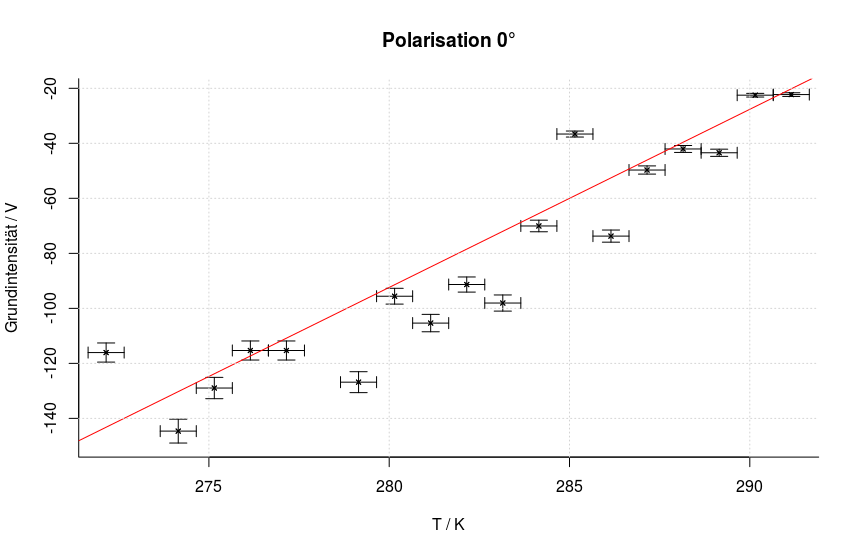
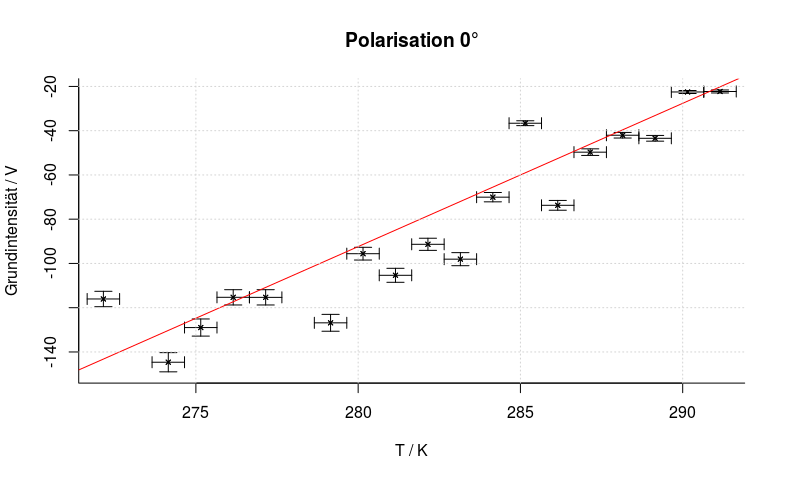
dfgj

diff --git a/hanle.tex b/hanle.tex
@@ -392,28 +392,31 @@ $$\tau_{45°}=40.3\pm0.8$$
 Für die Polarisationen $Pol=0°$ und $Pol=90°$ erhalten wir übereinstimmende Ergebnisse. Die Ergebnisse von $Pol=45°$ passen jedoch nicht zu den anderen Ergebnissen. Deswegen wird kein Mittelwert aus den Ergebnissen gebildet. Mehr dazu folgt in Kapitel \ref{diskussion}.
 \newpage
 
-\subsection{Intensitätsverlauf}
-\graThree{intense-warm0}{intense-warm45}{intense-warm90}{Zeitlicher Verlauf der Intensitätsamplituden der drei verschiedenen Polarisationen des Aufwärmvorgangs\label{intense-warm}}
-\graThree{intense-cold0}{intense-cold45}{intense-cold90}{Zeitlicher Verlauf der Intensitätsamplituden der drei verschiedenen Polarisationen des Abkühlvorgangs\label{intense-cold}}
-In den Abbildungen \ref{intense-warm} und \ref{intense-cold} sind die Amplituden der Lorentz-Fits über die Zeit aufgetragen. Man erkennt einen linear abnehmenden Verlauf, an welchen eine Gerade gefittet wurde ($I(T)=a\cdot T+b$).\\
+\subsection{Grundintensitäten}
+Um die Temperaturmessungen zu überprüfen, wurden in den Abbildungen \ref{intense-warm} und \ref{intense-cold} Grundintensitäten der Lorentz- und Dispersions-Fits über die Zeit aufgetragen (Daten im Anhang in Kapitel \ref{tabellen}). Da man hier durch die Temperaturabhängigkeit des Photomultipliers einen linearen Verlauf erwartet, kann man aus Abweichungen von diesem Verlauf auf Fehler bei den Temperaturmessungen schließen.
 
-Die Parameter der Fitdaten sind in Tabelle \ref{fitdaten} zu finden.
+\graThree[0.6]{intense-warm0}{intense-warm45}{intense-warm90}{Zeitlicher Verlauf der Intensitätsamplituden der drei verschiedenen Polarisationen des Aufwärmvorgangs\label{intense-warm}}
+\graThree[0.6]{intense-cold0}{intense-cold45}{intense-cold90}{Zeitlicher Verlauf der Intensitätsamplituden der drei verschiedenen Polarisationen des Abkühlvorgangs\label{intense-cold}}
+\newpage
+An diese Daten fitten wir nun eine Gerade $I(T)=a\cdot T+b$. Die Parameter der Fitdaten sind in Tabelle \ref{fitdaten} zu finden.
 
 \begin{table}[h!]
 	\centering
 	\begin{tabular}{c||c|c||r}
 		$Pol$	&	$a\,/\,\mathrm{\frac{V}{K}}$	&	$b\,/\,\mathrm{V}$	& $\chi^2$/ndf	\\\hline\hline
 		\textbf{Aufwärmen}	&	&	&	\\\hline
-		0°	&	$-34.8\pm0.9$	&	$11100\pm300$	&	0.19	\\\hline
-		45°	&	$-9.0\pm0.3$	&	$2830\pm80$		&	0.10	\\\hline
-		90° &	$-33.2\pm0.5$	&	$10280\pm160$	&	0.09	\\\hline\hline
+		0°	&	$18.8\pm1.9$	&	$-5900\pm500$	&	1.79	\\\hline
+		45°	&	$-0.3\pm0.5$	&	$70\pm150$		&	176	\\\hline
+		90° &	$-16.6\pm1.1$	&	$5200\pm300$	&	0.69	\\\hline\hline
 		\textbf{Abkühlen}	&	&	&	\\\hline
-		0°	&	$-12.6\pm0.4$	&	$3810\pm110$	&	0.48	\\\hline
-		45°	&	$-2.72\pm0.09$	&	$820\pm30$		&	0.12	\\\hline
-		90° &	$-9.2\pm0.3$	&	$2730\pm80$ 	&	0.43		
+		0°	&	$6.5\pm0.7$		&	$-1910\pm190$	&	3.6	\\\hline
+		45°	&	$-0.8\pm0.4$	&	$260\pm100$		&	33	\\\hline
+		90° &	$-3.6\pm0.8$	&	$1100\pm200$ 	&	3.8		
 	\end{tabular}
 	\caption{Fitdaten der Intensitätsverläufe aus den Abbildungen \ref{intense-warm} und \ref{intense-cold}\label{fitdaten}}
 \end{table}
+
+Für die Polarisationseinstellungen $Pol=0°$ und $Pol=90°$ sind die Fits akzeptabel, allerdings lassen sich Abweichungen erkennen. Für den Aufwärmvorgang sind die Fits besser als für den Abkühlvorgang. Außerdem fällt auf, dass die Werte für die Polarisation $Pol=45°$ nicht zum linearen Verlauf passen.
 
 \clearpage
 \section{Zusammenfassung und Diskussion}
@@ -425,7 +428,7 @@ Die Parameter der Fitdaten sind in Tabelle \ref{fitdaten} zu finden.
 %\subsection{Grafiken}
 
 
-\subsection{Tabellen}
+\subsection{Tabellen}\label{tabellen}
 In den folgenden Tabellen \ref{cold0} - \ref{warm90} sind die Daten der Lorentz-Fits zu finden:
 \input{tables/cold0.tex}
 \input{tables/cold45.tex}
